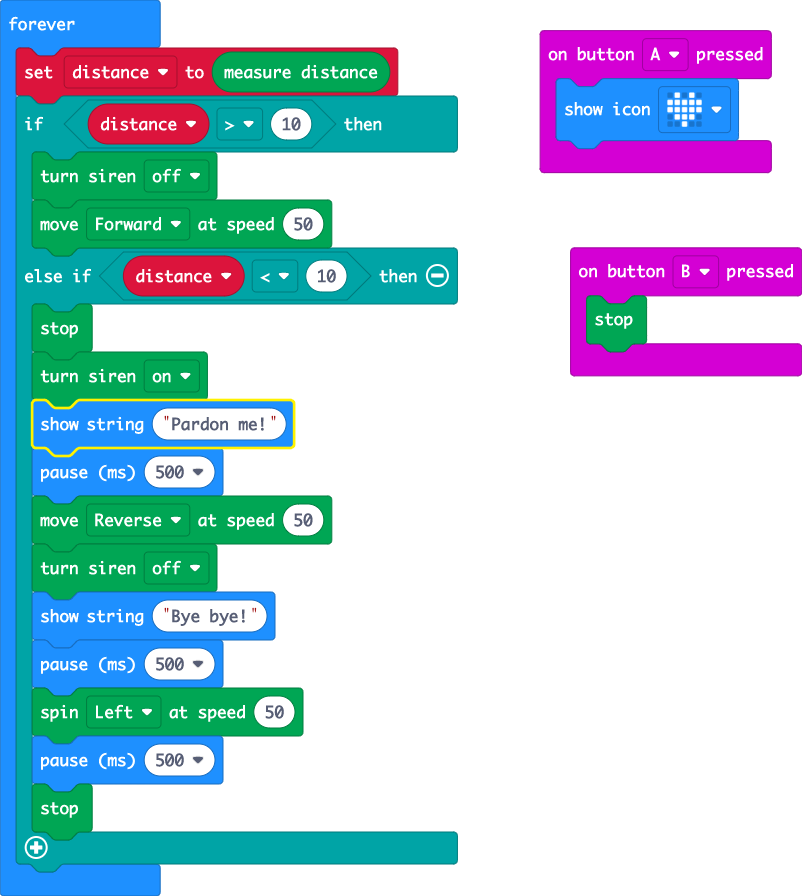
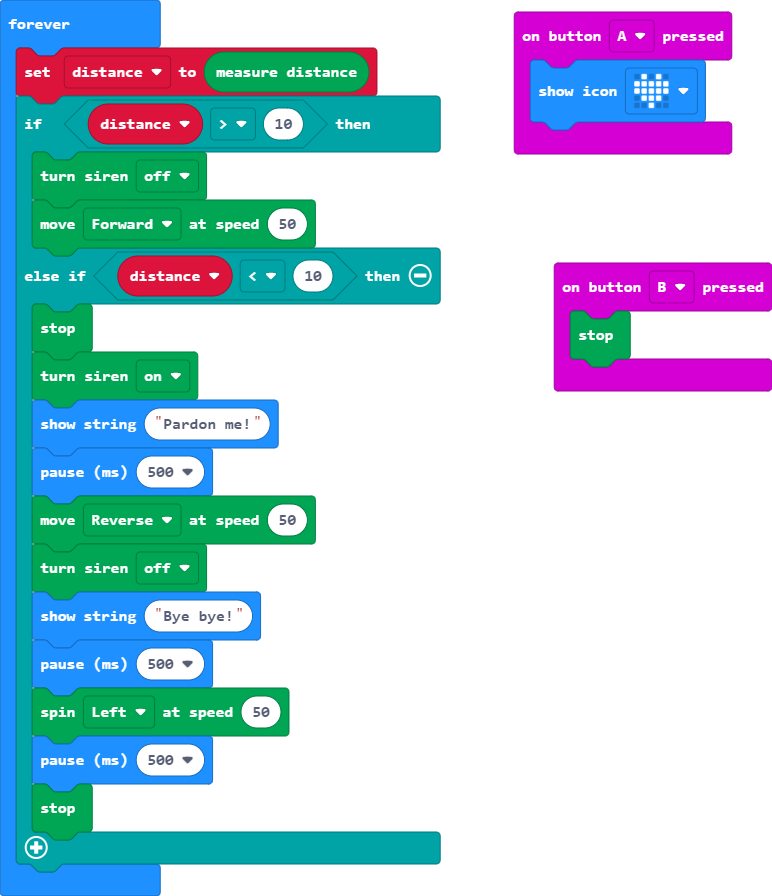
Update main.blocks, main.py

diff --git a/main.py b/main.py
@@ -17,12 +17,12 @@ def on_forever():
     elif distance < 10:
         Kitronik_Move_Motor.stop()
         Kitronik_Move_Motor.sound_siren(Kitronik_Move_Motor.OnOffSelection.ON)
-        basic.show_string("Excuse me!")
+        basic.show_string("Pardon me!")
         basic.pause(500)
         Kitronik_Move_Motor.move(Kitronik_Move_Motor.DriveDirections.REVERSE, 50)
+        Kitronik_Move_Motor.sound_siren(Kitronik_Move_Motor.OnOffSelection.OFF)
         basic.show_string("Bye bye!")
         basic.pause(500)
-        Kitronik_Move_Motor.sound_siren(Kitronik_Move_Motor.OnOffSelection.OFF)
         Kitronik_Move_Motor.spin(Kitronik_Move_Motor.SpinDirections.LEFT, 50)
         basic.pause(500)
         Kitronik_Move_Motor.stop()
